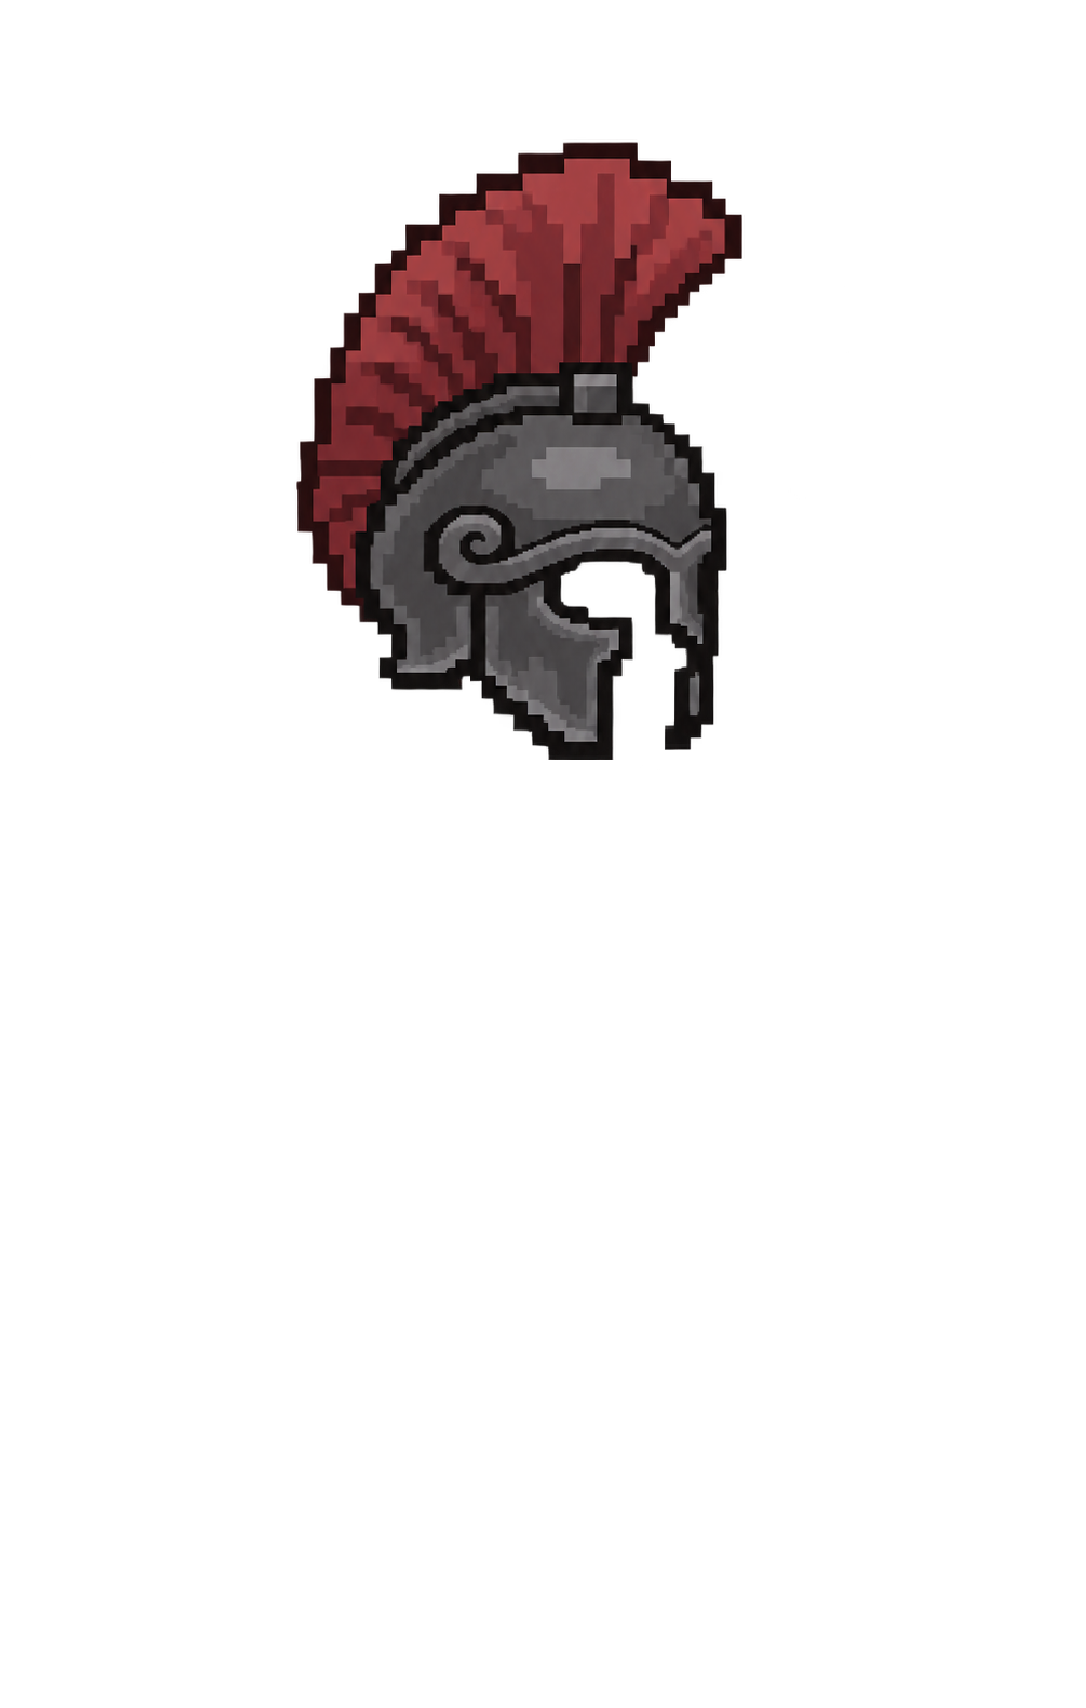
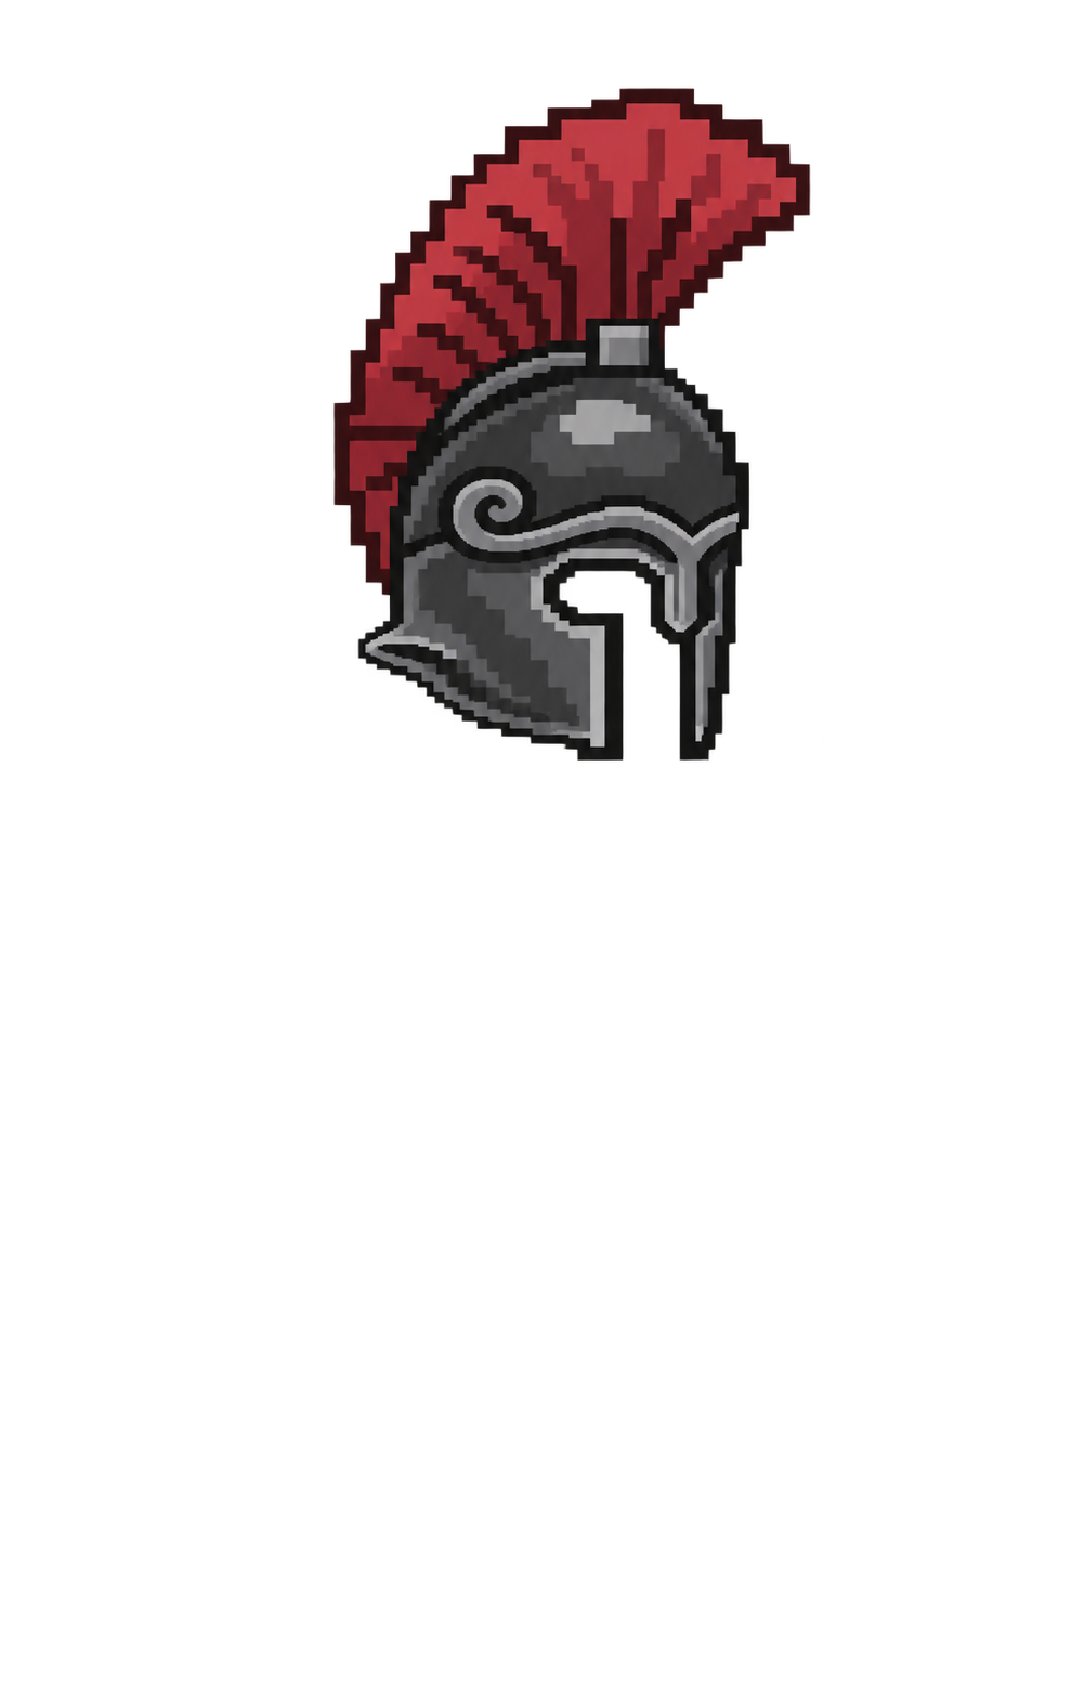
fix: 黒赤の兜を整え後ろ髪なしの着用を登録 (#143)

Changed region(s): [[0.2735, 0.031, 0.7597, 0.4655]]

diff --git a/src/equipment-renderer.ts b/src/equipment-renderer.ts
@@ -29,8 +29,9 @@ export async function composeEquipment(item: Equipment, options: ComposeOptions 
     : mode === "ghost"
       ? await Promise.all([loadImage(figure.base), loadImage(item.src)])
       : await Promise.all([
-        loadImage("hairLayers" in item ? item.hairLayers.rear : figure.ponytail),
-        loadImage(figure.body), loadImage(item.src),
+        "hideHair" in item && item.hideHair ? null
+          : loadImage("hairLayers" in item ? item.hairLayers.rear : figure.ponytail),
+        loadImage("body" in item ? item.body : figure.body), loadImage(item.src),
         "hairLayers" in item ? loadImage(item.hairLayers.root.src) : null,
       ]);
   // Abandon superseded loads before allocating or drawing another large canvas.
@@ -43,7 +44,7 @@ export async function composeEquipment(item: Equipment, options: ComposeOptions 
   if (item.src === null || mode === "ghost") {
     g.drawImage(images[0]!, 0, figure.top);
   } else {
-    g.drawImage(images[0]!, 0, "hairLayers" in item ? 0 : figure.top + item.hairY);
+    if (images[0]) g.drawImage(images[0], 0, "hairLayers" in item ? 0 : figure.top + item.hairY);
     g.drawImage(images[1]!, 0, figure.top);
   }
   if (item.src !== null) {

diff --git a/src/equipment-data.ts b/src/equipment-data.ts
@@ -9,6 +9,7 @@ import goldhorn from "./assets/equipment/gold-single-horn.png";
 import goldhornHair from "./assets/equipment/gold-single-horn-hair.png";
 import goldhornRoot from "./assets/equipment/gold-single-horn-root.png";
 import blackred from "./assets/equipment/black-red-crest.png";
+import blackredBody from "./assets/equipment/black-red-body.png";
 import silverThumb from "./assets/equipment/thumbs/silver.png";
 import purpleThumb from "./assets/equipment/thumbs/purple.png";
 import goldredThumb from "./assets/equipment/thumbs/goldred.png";
@@ -31,7 +32,7 @@ export const equipment = [
     src: goldhorn, thumb: goldhornThumb,
     hairLayers: { rear: goldhornHair, root: { src: goldhornRoot, x: 350, y: 630 } },
   },
-  { id: "blackred", name: "黒・赤い鶏冠の兜", detail: "高い赤の鶏冠状の飾りと、黒い面頬。", src: blackred, thumb: blackredThumb, hairY: 0 },
+  { id: "blackred", name: "黒・赤い鶏冠の兜", detail: "赤い鶏冠と黒い面頬。後ろ髪は兜の中に収まります。", src: blackred, thumb: blackredThumb, hairY: 0, body: blackredBody, hideHair: true },
 ] as const;
 
 export type Equipment = (typeof equipment)[number];

diff --git a/src/equipment.ts b/src/equipment.ts
@@ -74,7 +74,7 @@ async function select(item: Equipment): Promise<void> {
     canvas.dataset.style = item.id;
     canvas.setAttribute("aria-label", item.id === "base"
       ? "兜を外し、元の顔とポニーテールに戻った女性剣闘士"
-      : `同じ女性剣闘士に${item.name}を重ね、低いポニーテールを出した姿`);
+      : `同じ女性剣闘士に${item.name}を重ね、${"hideHair" in item && item.hideHair ? "後ろ髪を兜の中へ収めた" : "低いポニーテールを出した"}姿`);
     label.textContent = selectedName.textContent = item.name;
     selectedDetail.textContent = item.detail;
     counter.textContent = `${String(equipment.indexOf(item) + 1).padStart(2, "0")} / ${String(equipment.length).padStart(2, "0")}`;

diff --git a/docs/01_ゲーム企画・基本設計書.md b/docs/01_ゲーム企画・基本設計書.md
@@ -11,12 +11,13 @@
 - 公開ページは装備室の3ページ。`/` は元の画像切替版、`/equipment.html` は装備着脱版、`/helmet-fit.html` は元の顔と兜のサイズ比較で、相互リンクを備える。Vite + TypeScriptで実装し、developからGitHub Pagesへ配信する。
 - 元の画像切替版では「兜なし」「銀・青緑の兜」「黒金・紫の兜」「金・赤の兜」「銀・角付きの兜」「金・一本角の兜」「黒・赤い鶏冠の兜」の承認済み全身画像7枚を切り替える。初期表示は銀・青緑。
 - 画像切替版は「兜を外す」で兜なしへ戻り、選択中の元の全身PNGを保存できる。
-- 装備着脱版は同じ人物に6種類の独立した兜PNGを重ねる。初期表示は銀・青緑。装備時は低いポニーテール、外すと元の顔・髪型へ戻る。共通人物の首・襟足・肩を保持し、兜の選択によって体の大きさを変えない。
+- 装備着脱版は同じ人物に6種類の独立した兜PNGを重ねる。初期表示は銀・青緑。装備時は低いポニーテールを使い、黒・赤い鶏冠だけは後ろ髪を兜の中へ収める。外すと元の顔・髪型へ戻る。共通人物の首・襟足・肩を保持し、兜の選択によって体の大きさを変えない。
 - 着脱版の選択欄は兜単体の画像6種類から選ぶ。「兜なし」は「—」を表示する。人物が着けた姿は大きなプレビューで確認する。
 - 着脱版の保存対象は人物と兜を合成した1086×1708の透過PNG。兜なしも同じキャンバスで、飾りが収まるよう上側に260pxの余白を持つ。
-- 着脱版の金・一本角は、採用した短い角と、銀・角付きに合わせた頭部サイズ・その後の約4%拡大を反映する。黒・赤は鶏冠を高くしたパーツを使う。
-- 着脱版の銀・角付き／金・一本角／黒・赤い鶏冠は、銀・青緑を目安に顎当ての下端を顎先より少し下へ出す。頭部サイズ・共通人物と黒・赤の鶏冠は維持する。金・一本角の角先と両兜の襟足は、次項の承認済み調整を適用する。元の画像切替版は別の全身素材を使う。
+- 着脱版の金・一本角は、採用した短い角と、銀・角付きに合わせた頭部サイズ・その後の約4%拡大を反映する。黒・赤は一本角の帽体・顔の覆いを基準に整えた承認済みパーツと高い赤い鶏冠を使い、鼻当てがまっすぐな形を採用する。
+- 着脱版の銀・角付き／金・一本角／黒・赤い鶏冠は、銀・青緑を目安に顎当ての下端を顎先より少し下へ出す。銀・角付きと金・一本角の頭部サイズ・共通人物は維持する。黒・赤は後述の #143 の承認済み調整を適用する。金・一本角の角先と両兜の襟足は、次項の承認済み調整を適用する。元の画像切替版は別の全身素材を使う。
 - 着脱版の銀・角付きは耳と襟足を広く覆い、頬から襟足まで継ぎ目のない銀板としてつなげる。金・一本角は襟足の覆いと外へ反った縁を低い位置に置き、縁を浅くして襟足側の濃い茶色を抑える。角先は画像の右へ少し曲げる。通常の着用では髪の根元を奥側の縁より手前につなぎ、毛先の位置は保持する。どちらも承認済みのパーツを使用し、頭部サイズ・顔の開口部・共通人物を維持する。
+- 着脱版の黒・赤い鶏冠は、一本角に近い帽体・頬当て・鼻当ての釣り合いへ調整し、後ろ髪を表示しない。人物素材に残っていた襟足側の髪片も局所的に除去した専用素材を使い、首・肩と体格を保持する。半透明比較は従来どおり元の顔と髪型に兜だけを重ねる。
 - サイズ比較ページは基準の顔と各兜の顔周りを同じ座標・倍率で並べる。通常表示と元の顔への半透明表示、頭頂・額・後頭部・耳側・鼻先・目・顎・兜の端の基準線のON/OFFを切り替えられる。ラベル文字のON/OFFは別に切り替えられ、初期表示では線・文字ともに表示する。線を隠すと文字も隠れて文字切替を無効にし、線を再表示したときは文字の選択状態を保つ。ラベルは「頭頂」「額」「後頭部」「耳側」「鼻先」「目」「顎」「兜の端」とし「（目安）」を付けない。「後頭部」「耳側」「鼻先」「兜の端」の文字は、画像上端の対応する縦線の位置に沿って左からこの順に置く。文字が画像に重ならないよう上側にラベル欄を設け、小さな枠でははみ出さず折り返す。文字や線の非表示時も上側欄の高さを保ち、画像の上下位置を変えない。基準線は表示サイズによらず一定の太さで重ねる。頭頂は髪を含む目安。額の横線は目から顎までと同じ距離だけ目の上に、後頭部の縦線は比較枠の左端と耳側の線の中間に置く。兜の端の縦線は、鼻先から比較枠右端までを3等分した鼻先寄りの位置に置く。いずれも補助的な目安で、実際の頭蓋骨の輪郭を確定するものではない。線は兜ごとに動かさない。
 - 比較対象は着脱版と同じ装備データから取得する。新しい兜を装備データへ追加すると、比較画面にも名前・画像・髪の位置が反映される。通常の合成処理も着脱版と共通にする。比較ページから装備画像を編集する機能は設けない。
 - 画像ごとの腰・足裏の基準を使って表示位置と大きさを調整する。スマートフォンでも操作できる。
@@ -34,6 +35,8 @@
 これらは未採用の検討事項であり、実装する場合は個別に内容を決める。
 
 ## 12. 変更履歴と過去資料
+
+- 2026-11-21：黒・赤い鶏冠の帽体・頬当て・鼻当てを一本角との比較で調整し、承認済みの後ろ髪なしの姿を着脱版へ登録する（#143）。鼻当てを曲げた案は取り消し、まっすぐな形を採用。共通の合成で比較ページ・保存PNGにも反映する。検証結果とレビューはIssue・PRに記録する。
 
 - 2026-11-18：承認済み3枚の全身画像を切り替える装備室を公開した（#103・PR #104）。
 - 2026-11-18：現在の作業を装備室中心に整理し、旧戦闘基本設計・モーション候補・グラフィックスメモを [過去資料](archive/README.md) へ分離する（#109）。引き継ぎ資料（#106・PR #107）の変更を整理とともにPR #110へ統合し、#107は未マージで閉じた。
@@ -53,6 +56,8 @@
 - 戦闘の構想や承認履歴は過去資料とGit履歴に保存する。現行の装備室の制約や次の作業として自動的に引き継がない。将来戦闘を再開する場合は、その時点で参照する。
 
 ## 14. 現在の状態と次の検討
+
+- #143 の黒・赤い鶏冠は、鼻当ての微調整を取り消した兜と、後ろ髪なしの着用をユーザー承認済み。着脱版・比較ページ・保存へ登録する。実施した確認・レビュー・公開状況は対応IssueとPRに記録する。
 
 - 実装済みは画像切替版の全身画像7枚の切替・保存と、比較用着脱版の兜6種類の合成・着脱・合成PNG保存。画像切替版の追加記録は §12 を参照。両ページの切替・保存と、着脱版の共通人物・首・襟足の保持を確認済み。
 - #119 の兜単体の選択欄は公開済みで、公開URLの動作確認はIssueに記録済み。元の画像切替版と、人物プレビュー・保存内容は維持する。
